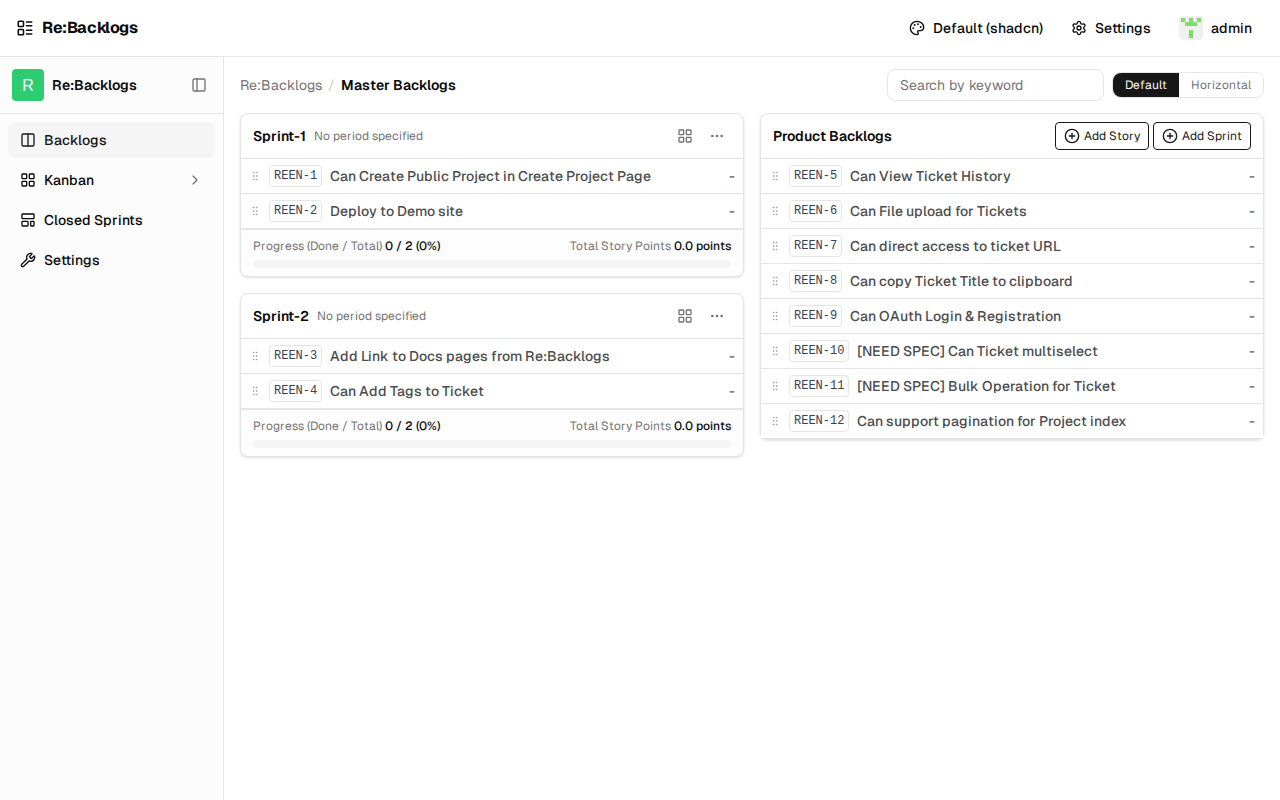
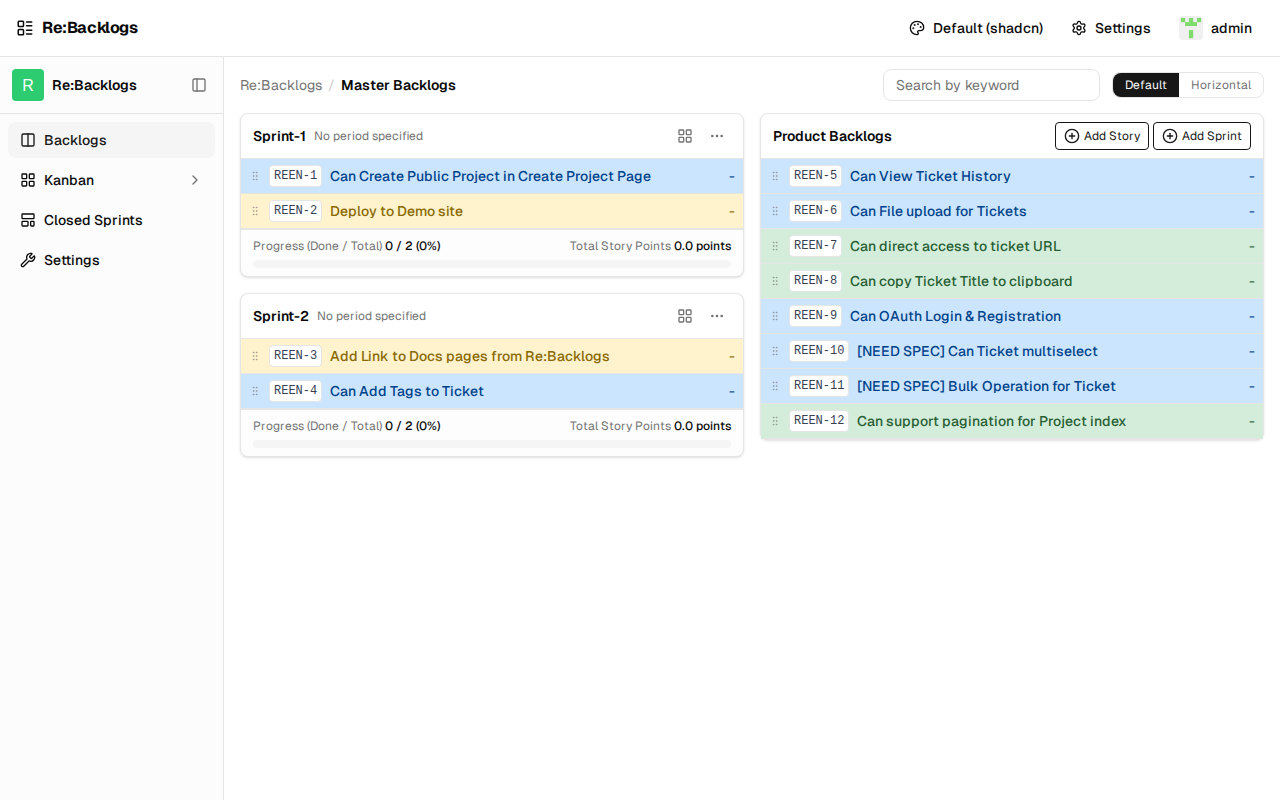
Update Screenshot

Changed region(s): [[0.1875, 0.1875, 1.0, 0.5625], [0.6875, 0.0938, 0.8125, 0.125]]

diff --git a/screenshots/seed.rb b/screenshots/seed.rb
@@ -5,8 +5,8 @@ puts "=== Screenshot seed: start ==="
 
 # --- Installer ---
 unless Setting.installed
-  MasterTicketStatus.create_default_en if MasterTicketStatus.none?
-  MasterTicketCategory.create_default_en if MasterTicketCategory.none?
+  MasterTicketStatus.create_default_en
+  MasterTicketCategory.create_default_en
   Setting.installed = true
   puts "  Setting.installed = true"
 end
@@ -56,60 +56,80 @@ if project.new_record?
   project.body  = "Open Source project management tool."
   project.save!
   project.groups << group
+
+  MasterTicketStatus.all.each do |master|
+    ProjectTicketStatus.create!(
+      project:    project,
+      title:      master.title,
+      sort_order: master.sort_order,
+      is_done:    master.is_done
+    )
+  end
+
+  MasterTicketCategory.all.each do |master|
+    ProjectTicketCategory.create!(
+      project:    project,
+      title:      master.title,
+      sort_order: master.sort_order,
+      color:      master.color
+    )
+  end
+
   puts "  Created project: REEN"
 else
   puts "  Project already exists: REEN"
   project.groups << group unless project.groups.include?(group)
 end
 
-# --- Statuses ---
-
-status_defs = ["New", "In Progress", "Resolved", "Feedback", "Done", "Rejected"]
-statuses = status_defs.map.with_index(1) do |title, i|
-  ProjectTicketStatus.find_or_create_by!(project: project, title: title) do |s|
-    s.sort_order = i
-  end
-end
-status_map = statuses.index_by(&:title)
+status_map = ProjectTicketStatus.where(project: project).index_by(&:title)
 
 # --- Sprints ---
 
 sprint1 = Sprint.find_or_create_by!(project: project, title: "Sprint-1")
 sprint2 = Sprint.find_or_create_by!(project: project, title: "Sprint-2")
 
+cat_map = ProjectTicketCategory.where(project: project).index_by(&:title)
+cat_feature     = cat_map["Feature"]      # 青
+cat_improvement = cat_map["Improvement"]  # 緑
+cat_support     = cat_map["Support"]      # 黄
+
 # --- Stories ---
 
-def find_or_create_story(project:, sprint:, title:, status:)
-  Story.find_or_create_by!(project: project, title: title) do |s|
-    s.sprint = sprint
-    s.project_ticket_status = status
-    s.sort_order = Story.where(project: project).count
+def find_or_create_story(project:, sprint:, title:, status:, category: nil)
+  story = Story.find_or_initialize_by(project: project, title: title)
+  if story.new_record?
+    story.sprint = sprint
+    story.project_ticket_status = status
+    story.sort_order = Story.where(project: project).count
   end
+  story.project_ticket_category = category
+  story.save!
+  story
 end
 
 new_status         = status_map["New"]
 in_progress_status = status_map["In Progress"]
 
 # Sprint-1
-story1 = find_or_create_story(project: project, sprint: sprint1, title: "Can Create Public Project in Create Project Page", status: new_status)
-story2 = find_or_create_story(project: project, sprint: sprint1, title: "Deploy to Demo site",                                status: new_status)
+story1 = find_or_create_story(project: project, sprint: sprint1, title: "Can Create Public Project in Create Project Page", status: new_status, category: cat_feature)
+story2 = find_or_create_story(project: project, sprint: sprint1, title: "Deploy to Demo site",                                status: new_status, category: cat_support)
 
 # Sprint-2
-story3 = find_or_create_story(project: project, sprint: sprint2, title: "Add Link to Docs pages from Re:Backlogs", status: new_status)
-story4 = find_or_create_story(project: project, sprint: sprint2, title: "Can Add Tags to Ticket",                  status: new_status)
+story3 = find_or_create_story(project: project, sprint: sprint2, title: "Add Link to Docs pages from Re:Backlogs", status: new_status, category: cat_support)
+story4 = find_or_create_story(project: project, sprint: sprint2, title: "Can Add Tags to Ticket",                  status: new_status, category: cat_feature)
 
 # Backlogs (sprint なし)
 [
-  "Can View Ticket History",
-  "Can File upload for Tickets",
-  "Can direct access to ticket URL",
-  "Can copy Ticket Title to clipboard",
-  "Can OAuth Login & Registration",
-  "[NEED SPEC] Can Ticket multiselect",
-  "[NEED SPEC] Bulk Operation for Ticket",
-  "Can support pagination for Project index",
-].each do |title|
-  find_or_create_story(project: project, sprint: nil, title: title, status: new_status)
+  ["Can View Ticket History",               cat_feature],
+  ["Can File upload for Tickets",           cat_feature],
+  ["Can direct access to ticket URL",       cat_improvement],
+  ["Can copy Ticket Title to clipboard",    cat_improvement],
+  ["Can OAuth Login & Registration",        cat_feature],
+  ["[NEED SPEC] Can Ticket multiselect",    cat_feature],
+  ["[NEED SPEC] Bulk Operation for Ticket", cat_feature],
+  ["Can support pagination for Project index", cat_improvement],
+].each do |title, category|
+  find_or_create_story(project: project, sprint: nil, title: title, status: new_status, category: category)
 end
 
 # --- Tasks ---
